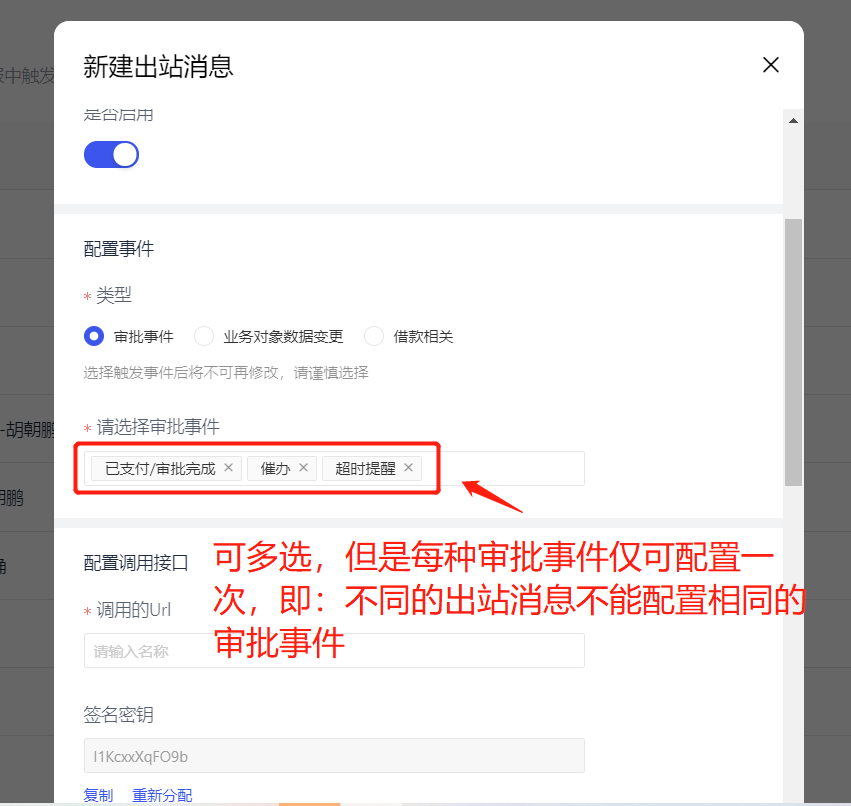
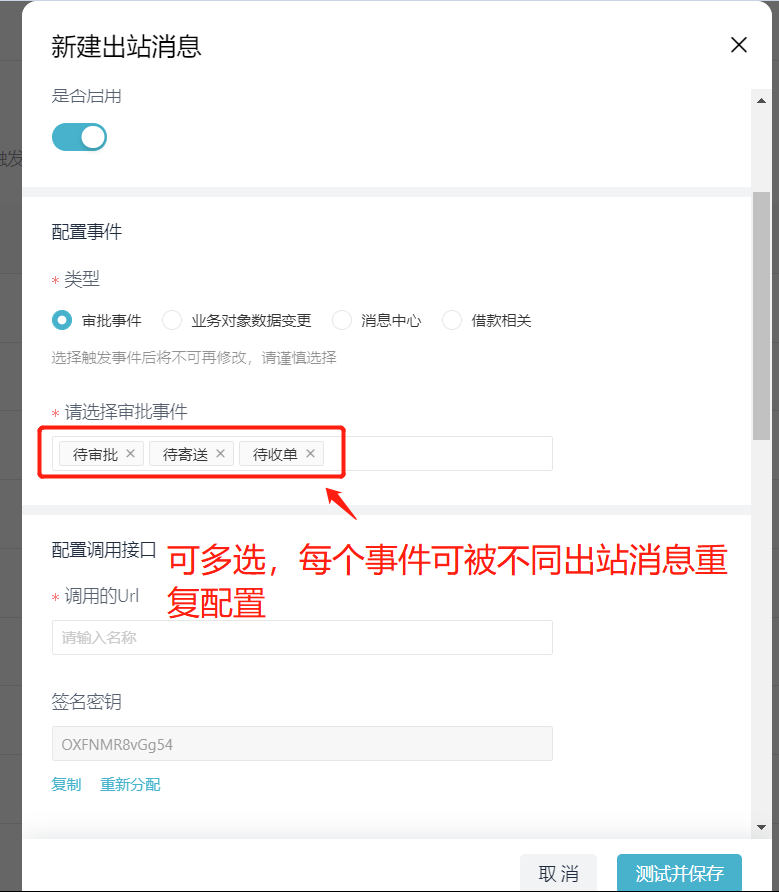
1.更新了 审批事件 类型配置介绍 “每个审批事件可被不同出站消息重复配置”。

diff --git a/docs/open-api/outbound-message/outbound-new.md b/docs/open-api/outbound-message/outbound-new.md
@@ -14,7 +14,8 @@
 |:--- |:--- |:--- |
 | **审批事件**        | 触发配置的审批事件动作<br/> 审批事件类型：【待审批】、【待寄送】、【待收单】、【待支付】、<br/>【被驳回】、【已支付/审批完成】、【催办】、【超时提醒】、<br/>【审批通过（已开通【差旅管理】的用户）】、【抄送】、【评论】、<br/>【被@】、【打印提醒】、【单据撤回】、【待办已处理】| 触发出站消息 |
 | **业务对象数据变更** | 新增或修改业务对象数据 | 触发出站消息 |
-| **EBot**          | 到达此节点 | 触发出站消息，可触发调用失败后配置 |
+| **消息中心**        | 满足消息中心配置的通知触发条件 | 触发出站消息 |
+| **EBot**          | 到达此节点 | 触发出站消息，可触发出站失败后配置 |
 | **借款相关**        | 触发配置的还款事件<br/>还款事件类型：【发起手动还款】、【手动还款被确认收款】、<br/>【手动还款驳回】、【还款提醒】 | 触发出站消息 |
 
 ---
@@ -30,7 +31,10 @@
 ![image](images/新建出站消息界面.png)
 
 ---
-### （3）新建/编辑出站消息--审批事件（审批事件支持多选，但每个事件只能被选择一次）
+### （3）新建/编辑出站消息--审批事件
+:::caution
+- 审批事件支持多选，每个审批事件可被不同出站消息重复配置。
+:::
 
 ![image](images/approvalEvent.png)
 
@@ -40,14 +44,17 @@
 ![image](images/datalinkChange.png)
 
 ---
-### （5）新建/编辑出站消息--EBot（在审批流EBot节点上新建此类型）
+### （5）新建/编辑出站消息--EBot
+:::caution
+- 在审批流EBot节点上新建此类型。
+:::
 
 ![image](images/ebot.png)
 
 ---
 ### （6）新建/编辑出站消息--消息中心
 
-![image](images/消息中心.png)
+![image](images/messageCenter.png)
 
 ---
 ### （7）新建/编辑出站消息--借款相关

diff --git a/versioned_docs/version-v2.1/open-api/outbound-message/outbound-new.md b/versioned_docs/version-v2.1/open-api/outbound-message/outbound-new.md
@@ -14,7 +14,8 @@
 |:--- |:--- |:--- |
 | **审批事件**        | 触发配置的审批事件动作<br/> 审批事件类型：【待审批】、【待寄送】、【待收单】、【待支付】、<br/>【被驳回】、【已支付/审批完成】、【催办】、【超时提醒】、<br/>【审批通过（已开通【差旅管理】的用户）】、【抄送】、【评论】、<br/>【被@】、【打印提醒】、【单据撤回】、【待办已处理】| 触发出站消息 |
 | **业务对象数据变更** | 新增或修改业务对象数据 | 触发出站消息 |
-| **EBot**          | 到达此节点 | 触发出站消息，可触发调用失败后配置 |
+| **消息中心**        | 满足消息中心配置的通知触发条件 | 触发出站消息 |
+| **EBot**          | 到达此节点 | 触发出站消息，可触发出站失败后配置 |
 | **借款相关**        | 触发配置的还款事件<br/>还款事件类型：【发起手动还款】、【手动还款被确认收款】、<br/>【手动还款驳回】、【还款提醒】 | 触发出站消息 |
 
 ---
@@ -30,7 +31,10 @@
 ![image](images/新建出站消息界面.png)
 
 ---
-### （3）新建/编辑出站消息--审批事件（审批事件支持多选，但每个事件只能被选择一次）
+### （3）新建/编辑出站消息--审批事件
+:::caution
+- 审批事件支持多选，每个审批事件可被不同出站消息重复配置。
+:::
 
 ![image](images/approvalEvent.png)
 
@@ -40,14 +44,17 @@
 ![image](images/datalinkChange.png)
 
 ---
-### （5）新建/编辑出站消息--EBot（在审批流EBot节点上新建此类型）
+### （5）新建/编辑出站消息--EBot
+:::caution
+- 在审批流EBot节点上新建此类型。
+:::
 
 ![image](images/ebot.png)
 
 ---
 ### （6）新建/编辑出站消息--消息中心
 
-![image](images/消息中心.png)
+![image](images/messageCenter.png)
 
 ---
 ### （7）新建/编辑出站消息--借款相关

diff --git a/docs/open-api/tools/staffs-getOpenUserId.md b/docs/open-api/tools/staffs-getOpenUserId.md
@@ -29,14 +29,14 @@ url="/api/openapi/v1/staffs/getOpenUserId"
 
 | 名称 | 类型 | 描述 | 是否必填 | 默认值 | 备注 |
 | :--- | :--- | :--- | :--- |:--- | :--- |
-|**userIds**| Array | 企微明文userId | 必填  | - | 企微明文userId数组，**最大数量不能超过 `100`** |
+|**ids**| Array | 企微明文userId | 必填  | - | 企微明文userId数组，**最大数量不能超过 `100`** |
 
 ## CURL
 ```shell
 curl --location --request POST 'https://wx2.ekuaibao.com/api/openapi/v1/staffs/getOpenUserId?accessToken=ID_3GjSy1OEUwM:dAY3noVGjy4s7w' \
 --header 'Content-Type: application/json' \
 --data-raw '{
-    "userIds":["id1","id2"]
+    "ids":["id1","id2"]
 }'
 ```
 

diff --git a/versioned_docs/version-v2.1/open-api/tools/staffs-getOpenUserId.md b/versioned_docs/version-v2.1/open-api/tools/staffs-getOpenUserId.md
@@ -29,14 +29,14 @@ url="/api/openapi/v1/staffs/getOpenUserId"
 
 | 名称 | 类型 | 描述 | 是否必填 | 默认值 | 备注 |
 | :--- | :--- | :--- | :--- |:--- | :--- |
-|**userIds**| Array | 企微明文userId | 必填  | - | 企微明文userId数组，**最大数量不能超过 `100`** |
+|**ids**| Array | 企微明文userId | 必填  | - | 企微明文userId数组，**最大数量不能超过 `100`** |
 
 ## CURL
 ```shell
 curl --location --request POST 'https://wx2.ekuaibao.com/api/openapi/v1/staffs/getOpenUserId?accessToken=ID_3GjSy1OEUwM:dAY3noVGjy4s7w' \
 --header 'Content-Type: application/json' \
 --data-raw '{
-    "userIds":["id1","id2"]
+    "ids":["id1","id2"]
 }'
 ```
 

diff --git a/docs/open-api/notice/update-log.md b/docs/open-api/notice/update-log.md
@@ -30,6 +30,7 @@ timeline: true
   - 更新了所有路径描述和图片，与系统界面保持一致。
 - 🐞 更新 [配置出站消息](/docs/open-api/outbound-message/outbound-new) 文档
   - 新增了 **消息中心** 类型介绍。
+  - 更新了 **审批事件** 类型配置介绍 “**每个审批事件可被不同出站消息重复配置**”。
 - 🐞 更新 **文档中部分图片**，与系统界面保持一致。
 
 ---

diff --git a/versioned_docs/version-v2.1/open-api/notice/update-log.md b/versioned_docs/version-v2.1/open-api/notice/update-log.md
@@ -30,6 +30,7 @@ timeline: true
   - 更新了所有路径描述和图片，与系统界面保持一致。
 - 🐞 更新 [配置出站消息](/docs/open-api/outbound-message/outbound-new) 文档
   - 新增了 **消息中心** 类型介绍。
+  - 更新了 **审批事件** 类型配置介绍 “**每个审批事件可被不同出站消息重复配置**”。
 - 🐞 更新 **文档中部分图片**，与系统界面保持一致。
 
 ---
